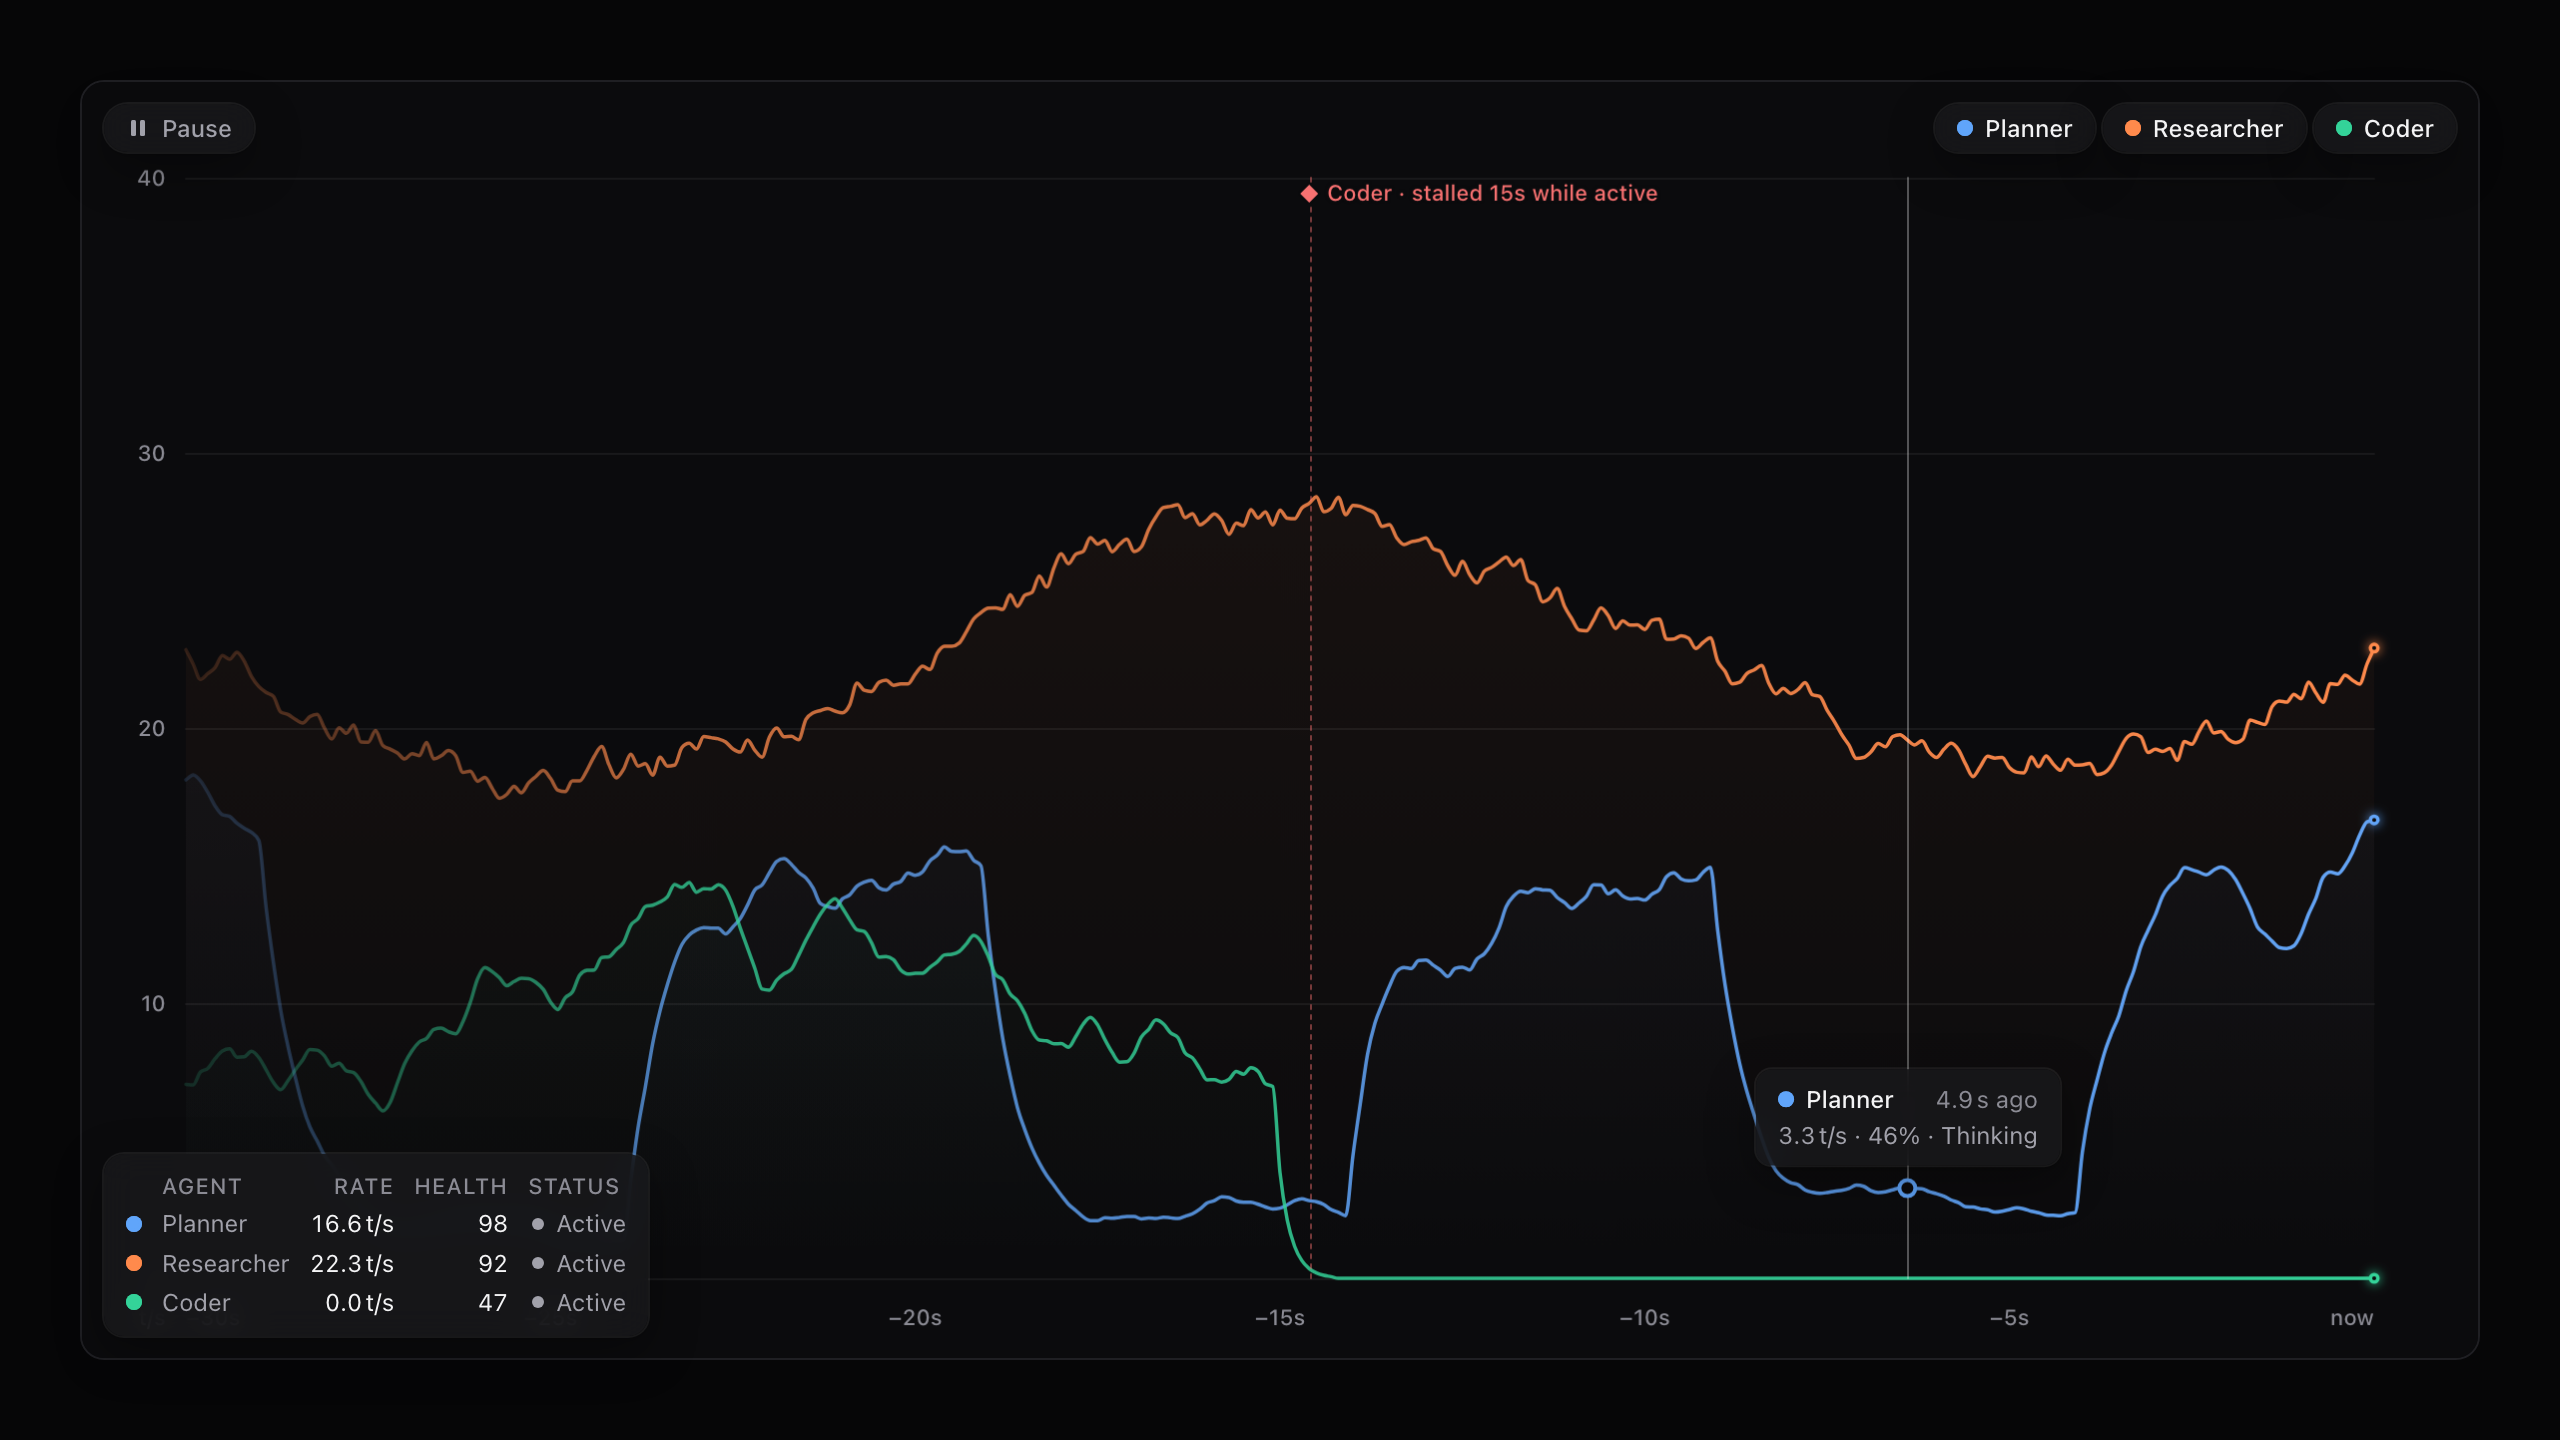
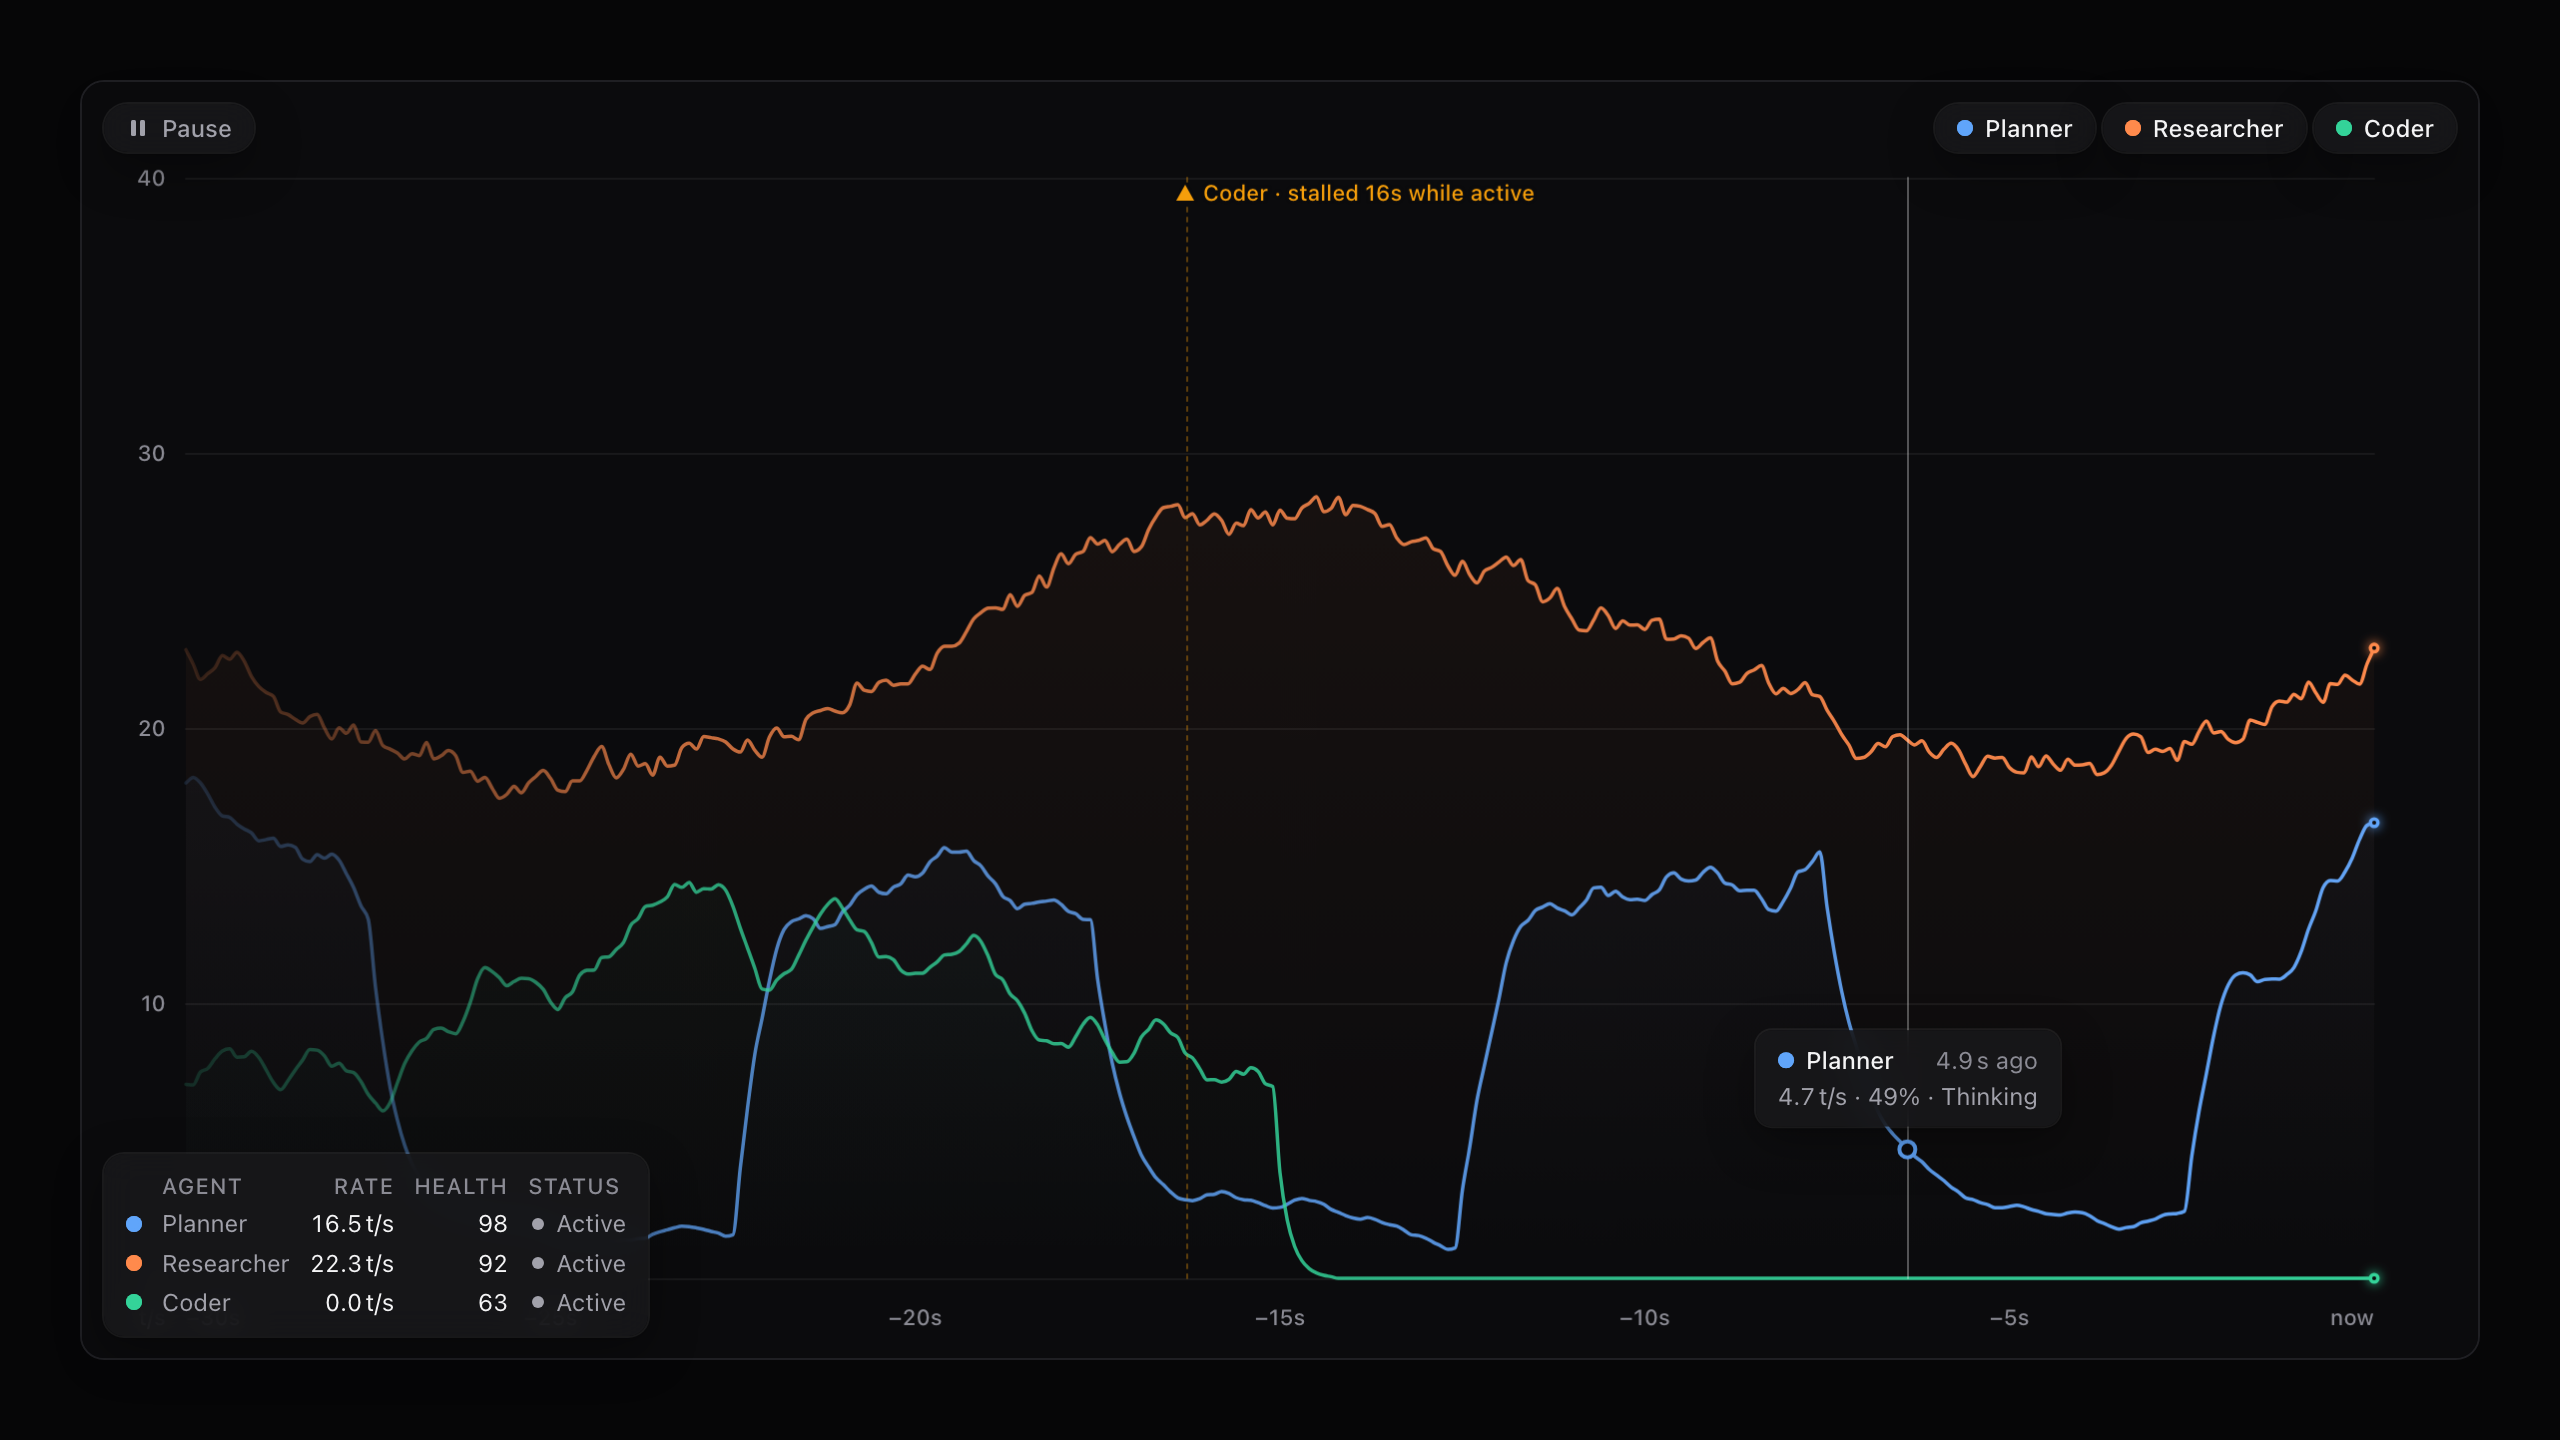
README: live demo, sharper pitch, how it differs
- Hero is now an animated demo (docs/demo-{light,dark}.png): the coder
  agent goes quiet while still "active" and the stall marker goes up.
  Rendered by `npm run demo` from the scripted scene, one headless capture
  per frame, assembled as an animated PNG without an image library.
- New tagline and intro: what it catches, and the two forms (React
  component, macOS app).
- "How it differs": the live layer next to tracing platforms.
- Accuracy: chart size ~22 KB (was 17), detectAnomalies alone ~2 KB (was 1);
  new limitation: an agent that starts slow can have its first burst read
  as a runaway.
- Showcase scene: the planner starts with a burst, so its usual peak is
  known before its first pause. Stills regenerated.
- Shared Chromium lookup in scripts/lib/chrome.mjs.

diff --git a/dev/Showcase.tsx b/dev/Showcase.tsx
@@ -1,6 +1,8 @@
 // dev/Showcase.tsx
 //
-// Deterministic scene for the README screenshots (`npm run screenshots`).
+// Deterministic scene for the still screenshots (`npm run screenshots`) and
+// the animated demo's frames (`npm run demo`, with `anim`: shorter, and no
+// staged inspection, so the stall is the one thing that happens).
 // Open http://localhost:5173/?shot=light (or dark) to preview it.
 //
 // The data is scripted, not simulated, so every capture tells the same story:
@@ -15,7 +17,7 @@ const TICK_MS = 100;
 const CODER_STALLS_AT_S = 25;
 const INSPECT_AT_S = 38.5;
 
-export default function Showcase({ theme }: { theme: 'light' | 'dark' }) {
+export default function Showcase({ theme, anim = false }: { theme: 'light' | 'dark'; anim?: boolean }) {
   const ref = useRef<AgentStatRef>(null);
   const agents = useMemo(
     () => [
@@ -43,10 +45,11 @@ export default function Showcase({ theme }: { theme: 'light' | 'dark' }) {
       const api = ref.current;
       if (!api) return;
 
-      // Planner: alternating 5 s phases of bursts and thinking, offset so the
-      // capture (~40 s) lands in the middle of a steady burst, where the
-      // panel's 500 ms refresh matches the line.
-      const plannerActive = Math.floor((t + 4) / 5) % 2 === 0;
+      // Planner: alternating 5 s phases of bursts and thinking. It starts
+      // with a burst, as agents do, so its usual peak is known before its
+      // first pause; the capture (~40 s) lands in the middle of a steady
+      // burst, where the panel's 500 ms refresh matches the line.
+      const plannerActive = Math.floor((t + 2.5) / 5) % 2 === 0;
       planner +=
         ((plannerActive ? 15 : 2.2) - planner) * 0.18 + drift('planner', plannerActive ? 0.35 : 0.12);
       progress.planner = Math.min(100, progress.planner + (plannerActive ? 0.22 : 0.04));
@@ -83,6 +86,7 @@ export default function Showcase({ theme }: { theme: 'light' | 'dark' }) {
     // Pin an inspection tooltip on the planner a few seconds back, using the
     // same keyboard path a user would.
     const inspect = setTimeout(() => {
+      if (anim) return;
       const canvas = document.querySelector<HTMLCanvasElement>('.agentstat-canvas');
       if (!canvas) return;
       canvas.focus({ preventScroll: true });
@@ -96,7 +100,7 @@ export default function Showcase({ theme }: { theme: 'light' | 'dark' }) {
       clearInterval(id);
       clearTimeout(inspect);
     };
-  }, []);
+  }, [anim]);
 
   const bg = theme === 'dark' ? '#060607' : '#f4f4f2';
   return (
@@ -114,7 +118,7 @@ export default function Showcase({ theme }: { theme: 'light' | 'dark' }) {
         windowSeconds={30}
         tokenAxisMax={40}
         anomalyDetection
-        height={640}
+        height={anim ? 420 : 640}
       />
     </div>
   );

diff --git a/dev/main.tsx b/dev/main.tsx
@@ -6,7 +6,8 @@ import Showcase from './Showcase';
 import BreakIt from './BreakIt';
 
 // `npm run dev` opens the demo. Append `?stress` for the load-test harness, or
-// `?shot=light` / `?shot=dark` for the README screenshot scene, or
+// `?shot=light` / `?shot=dark` for the README screenshot scene (`&anim` for
+// the animated demo's frames), or
 // `?break=many|long|narrow|short|rtl|empty` for worst-case UI scenes.
 const params = new URLSearchParams(window.location.search);
 const shot = params.get('shot');
@@ -18,7 +19,7 @@ createRoot(document.getElementById('root')!).render(
     {brk ? (
       <BreakIt scene={brk as Parameters<typeof BreakIt>[0]['scene']} theme={theme} />
     ) : shot ? (
-      <Showcase theme={shot === 'dark' ? 'dark' : 'light'} />
+      <Showcase theme={shot === 'dark' ? 'dark' : 'light'} anim={params.has('anim')} />
     ) : params.has('stress') ? (
       <Stress />
     ) : (

diff --git a/README.md b/README.md
@@ -5,24 +5,40 @@
 [![types](https://img.shields.io/npm/types/@dan-build/agentstat?style=flat-square)](https://www.npmjs.com/package/@dan-build/agentstat)
 [![license](https://img.shields.io/npm/l/@dan-build/agentstat?style=flat-square)](./LICENSE)
 
-**Live telemetry for LLM agents, rendered honestly.**
+**See when your AI agents stall, run away or thrash — live.**
 
-A React component that shows what your agents are doing right now: token rate,
-progress and status over time, a health score built only from signals you
-actually provide, and opt-in detection of stalls, runaway spikes and status
-thrashing. One canvas, about 17 KB min+gzip, no dependencies besides React.
+AgentStat watches agents while they run and says, in plain words, when one has
+stopped producing while it still claims to be working, when its output runs
+away, or when its status keeps flipping. It comes in two forms:
+
+- **A React component** for your own agent UI: token rate, status and health on
+  one canvas, about 22 KB min+gzip, no dependencies besides React.
+  [Quick start ↓](#quick-start)
+- **A macOS app and command line** for the coding agents on your machine:
+  every Claude Code session and subagent, live, local only.
+  [Get the app ↓](#the-macos-app)
 
 <picture>
-  <source media="(prefers-color-scheme: dark)" srcset="https://raw.githubusercontent.com/dan-build/agentstat/main/docs/screenshot-dark.png">
-  <img src="https://raw.githubusercontent.com/dan-build/agentstat/main/docs/screenshot-light.png" alt="AgentStat showing three agents' token rates over 30 seconds. The Coder agent has stopped producing output while still reporting Active, and a red marker reads “Coder · stalled 15s while active”. A tooltip inspects a Planner sample: 3.3 t/s, 46%, Thinking." width="100%">
+  <source media="(prefers-color-scheme: dark)" srcset="https://raw.githubusercontent.com/dan-build/agentstat/main/docs/demo-dark.png">
+  <img src="https://raw.githubusercontent.com/dan-build/agentstat/main/docs/demo-light.png" alt="AgentStat charting three agents' token rates live. The Coder agent's output drops to zero while it still reports Active; seconds later an amber marker appears: “Coder · stalled 19s while active”. The Planner keeps alternating bursts and thinking, and the Researcher streams steadily." width="100%">
 </picture>
 
----
+## How it differs
 
-> **Running coding agents?** AgentStat also comes as a small macOS app with a
-> command line: every Claude Code session and subagent on your machine, live —
-> which one is working, which one waits on a tool, which one has stalled.
-> [Get the app →](#the-macos-app)
+Tracing platforms such as Langfuse and LangSmith record runs so you can
+inspect, evaluate and compare them. AgentStat is the live layer next to them:
+it runs where the agent's output is — in your app's UI, or on your own
+machine — and answers one question while the run is still going: *is this
+agent healthy right now?*
+
+| | Tracing platforms | AgentStat |
+|---|---|---|
+| **Built for** | Inspecting, evaluating and comparing runs | Watching runs as they happen |
+| **Where** | A hosted or self-hosted service | Inside your UI, or on your Mac |
+| **Answers** | What happened, what it cost, how good it was | Working, waiting, stalled or running away? |
+| **Data** | Typically prompts, responses and traces | Token counts, tool calls and status. Streamed text is only counted, never stored or sent |
+
+They complement each other: many setups will want both.
 
 ## Quick start
 
@@ -411,6 +427,9 @@ status current (including `complete` when an agent is idle):
   AgentStat can't tell that the workers an orchestrator waits on are gone.
 - **Requests that differ a lot in speed** (one run at 80 t/s, the next at
   150) can briefly read as a runaway after a pause.
+- **An agent that starts slow** — seconds of low but steady output (above
+  `spikeMinBaselineRate`, 1 t/s) before its first real burst — can have that
+  burst flagged as a runaway, since it's judged against the slow phase.
 - **Tool-call loops** that only alternate working states aren't flagged as
   thrash: that alternation is also how healthy agents work.
 - **Rates computed per small chunk** (alternating 0 and high values) can hide
@@ -559,7 +578,7 @@ Omit `color` on agents to use the palette, which switches with the theme.
   on the client.
 - **React:** 18 and 19.
 - **Modules:** ESM and CommonJS, typed for both.
-- **Tree-shaking:** importing only `detectAnomalies` adds about 1 KB.
+- **Tree-shaking:** importing only `detectAnomalies` adds about 2 KB.
 
 ## Browser support
 
